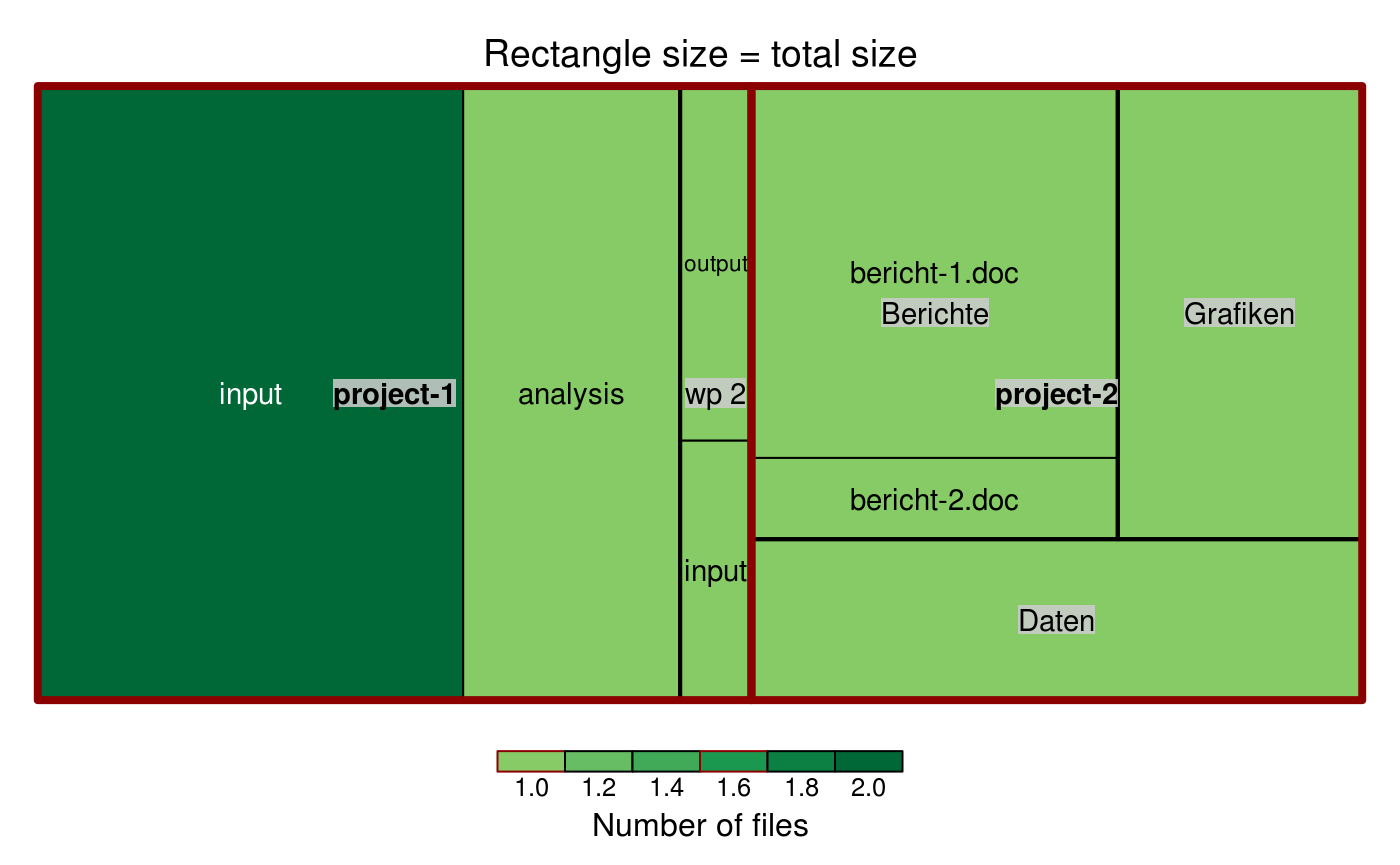
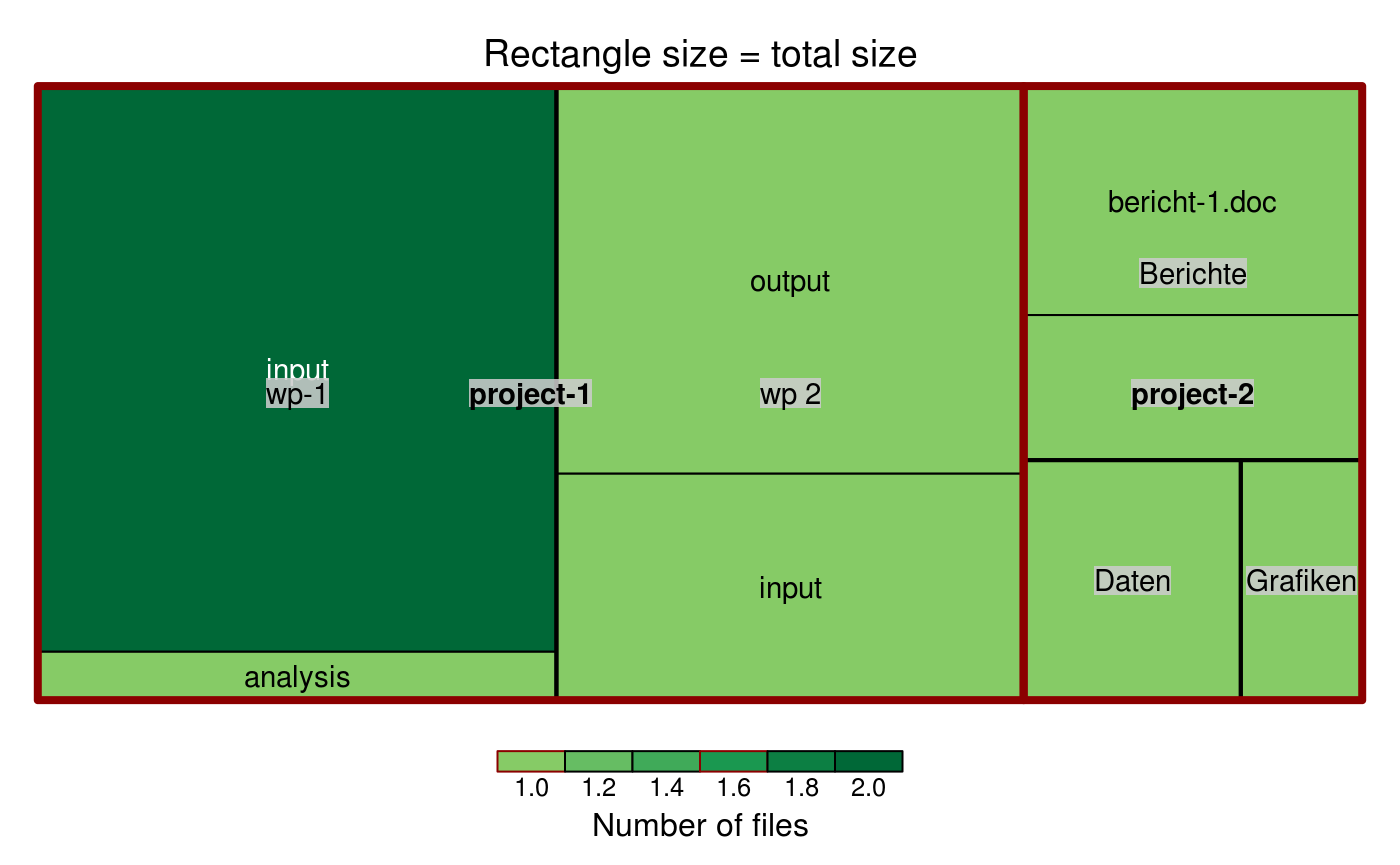
Built site for kwb.fakin: 0.3.0.9000@9576ae6

Changed region(s): [[0.0307, 0.0936, 0.9829, 0.8116], [0.7679, 0.2809, 0.9521, 0.4058], [0.7679, 0.2185, 0.9214, 0.2497]]

diff --git a/dev/articles/working_with_paths.html b/dev/articles/working_with_paths.html
@@ -104,7 +104,7 @@
       <h1>Working with Paths</h1>
                         <h4 class="author">Hauke Sonnenberg</h4>
             
-            <h4 class="date">2019-06-30</h4>
+            <h4 class="date">2019-07-03</h4>
       
       <small class="dont-index">Source: <a href="https://github.com/kwb-r/kwb.fakin/blob/master/vignettes/working_with_paths.Rmd"><code>vignettes/working_with_paths.Rmd</code></a></small>
       <div class="hidden name"><code>working_with_paths.Rmd</code></div>
@@ -142,16 +142,16 @@
 <pre><code>## Loading required package: networkD3</code></pre>
 <p>You can then use the <code><a href="../reference/plot_path_network.html">plot_path_network()</a></code> function from the kwb.fakin package to plot the example paths defined above:</p>
 <div class="sourceCode" id="cb4"><pre class="sourceCode r"><code class="sourceCode r"><a class="sourceLine" id="cb4-1" data-line-number="1">kwb.fakin<span class="op">::</span><span class="kw">plot_path_network</span>(paths)</a></code></pre></div>
-<div id="htmlwidget-a241016a91377f12ab9f" style="width:700px;height:162px;" class="sankeyNetwork html-widget"></div>
-<script type="application/json" data-for="htmlwidget-a241016a91377f12ab9f">{"x":{"links":{"source":[0,0,0,1,1,2,3,3,4,5,6,2,6],"target":[3,5,4,6,2,7,8,9,10,11,12,13,14],"value":[2,1,1,2,3,1,1,1,1,1,1,2,1]},"nodes":{"name":["project-2","project-1","wp-1","Berichte","Grafiken","Daten","wp 2","analysis","bericht-1.doc","bericht-2.doc","file 1.png","file-1.csv","input","input","output"],"group":["green","green","green","green","green","green","yellow","green","green","green","yellow","green","green","green","green"]},"options":{"NodeID":"name","NodeGroup":"colour","LinkGroup":null,"colourScale":"d3.scaleOrdinal() .domain(['green', 'yellow']) .range(['green', 'yellow'])","fontSize":7,"fontFamily":null,"nodeWidth":15,"nodePadding":8,"units":"","margin":{"top":null,"right":null,"bottom":null,"left":null},"iterations":32,"sinksRight":false}},"evals":[],"jsHooks":[]}</script><p>The function accepts all arguments provided by <code><a href="https://www.rdocumentation.org/packages/networkD3/topics/sankeyNetwork">networkD3::sankeyNetwork()</a></code>. You may e.g. use the argument <code>fontSize</code> to increase the node labels:</p>
+<div id="htmlwidget-bf618636c8169b9e0622" style="width:700px;height:162px;" class="sankeyNetwork html-widget"></div>
+<script type="application/json" data-for="htmlwidget-bf618636c8169b9e0622">{"x":{"links":{"source":[0,0,0,1,1,2,3,3,4,5,6,2,6],"target":[3,5,4,6,2,7,8,9,10,11,12,13,14],"value":[2,1,1,2,3,1,1,1,1,1,1,2,1]},"nodes":{"name":["project-2","project-1","wp-1","Berichte","Grafiken","Daten","wp 2","analysis","bericht-1.doc","bericht-2.doc","file 1.png","file-1.csv","input","input","output"],"group":["green","green","green","green","green","green","yellow","green","green","green","yellow","green","green","green","green"]},"options":{"NodeID":"name","NodeGroup":"colour","LinkGroup":null,"colourScale":"d3.scaleOrdinal() .domain(['green', 'yellow']) .range(['green', 'yellow'])","fontSize":7,"fontFamily":null,"nodeWidth":15,"nodePadding":8,"units":"","margin":{"top":null,"right":null,"bottom":null,"left":null},"iterations":32,"sinksRight":false}},"evals":[],"jsHooks":[]}</script><p>The function accepts all arguments provided by <code><a href="https://www.rdocumentation.org/packages/networkD3/topics/sankeyNetwork">networkD3::sankeyNetwork()</a></code>. You may e.g. use the argument <code>fontSize</code> to increase the node labels:</p>
 <div class="sourceCode" id="cb5"><pre class="sourceCode r"><code class="sourceCode r"><a class="sourceLine" id="cb5-1" data-line-number="1">kwb.fakin<span class="op">::</span><span class="kw">plot_path_network</span>(paths, <span class="dt">fontSize =</span> <span class="dv">16</span>)</a></code></pre></div>
-<div id="htmlwidget-f5c1d15da98f92db1619" style="width:700px;height:162px;" class="sankeyNetwork html-widget"></div>
-<script type="application/json" data-for="htmlwidget-f5c1d15da98f92db1619">{"x":{"links":{"source":[0,0,0,1,1,2,3,3,4,5,6,2,6],"target":[3,5,4,6,2,7,8,9,10,11,12,13,14],"value":[2,1,1,2,3,1,1,1,1,1,1,2,1]},"nodes":{"name":["project-2","project-1","wp-1","Berichte","Grafiken","Daten","wp 2","analysis","bericht-1.doc","bericht-2.doc","file 1.png","file-1.csv","input","input","output"],"group":["green","green","green","green","green","green","yellow","green","green","green","yellow","green","green","green","green"]},"options":{"NodeID":"name","NodeGroup":"colour","LinkGroup":null,"colourScale":"d3.scaleOrdinal() .domain(['green', 'yellow']) .range(['green', 'yellow'])","fontSize":16,"fontFamily":null,"nodeWidth":15,"nodePadding":8,"units":"","margin":{"top":null,"right":null,"bottom":null,"left":null},"iterations":32,"sinksRight":false}},"evals":[],"jsHooks":[]}</script><p>Let’s always use this font size by defining a short helper function:</p>
+<div id="htmlwidget-1b3d384a88dd50def753" style="width:700px;height:162px;" class="sankeyNetwork html-widget"></div>
+<script type="application/json" data-for="htmlwidget-1b3d384a88dd50def753">{"x":{"links":{"source":[0,0,0,1,1,2,3,3,4,5,6,2,6],"target":[3,5,4,6,2,7,8,9,10,11,12,13,14],"value":[2,1,1,2,3,1,1,1,1,1,1,2,1]},"nodes":{"name":["project-2","project-1","wp-1","Berichte","Grafiken","Daten","wp 2","analysis","bericht-1.doc","bericht-2.doc","file 1.png","file-1.csv","input","input","output"],"group":["green","green","green","green","green","green","yellow","green","green","green","yellow","green","green","green","green"]},"options":{"NodeID":"name","NodeGroup":"colour","LinkGroup":null,"colourScale":"d3.scaleOrdinal() .domain(['green', 'yellow']) .range(['green', 'yellow'])","fontSize":16,"fontFamily":null,"nodeWidth":15,"nodePadding":8,"units":"","margin":{"top":null,"right":null,"bottom":null,"left":null},"iterations":32,"sinksRight":false}},"evals":[],"jsHooks":[]}</script><p>Let’s always use this font size by defining a short helper function:</p>
 <div class="sourceCode" id="cb6"><pre class="sourceCode r"><code class="sourceCode r"><a class="sourceLine" id="cb6-1" data-line-number="1">plot_16pt &lt;-<span class="st"> </span><span class="cf">function</span>(...) kwb.fakin<span class="op">::</span><span class="kw">plot_path_network</span>(..., <span class="dt">fontSize =</span> <span class="dv">16</span>)</a></code></pre></div>
 <p>By default only the first three levels of folders or files are shown. You can increase (or decrease) the number of shown levels by setting the <code>max_depth</code> argument:</p>
 <div class="sourceCode" id="cb7"><pre class="sourceCode r"><code class="sourceCode r"><a class="sourceLine" id="cb7-1" data-line-number="1"><span class="kw">plot_16pt</span>(paths, <span class="dt">max_depth =</span> <span class="dv">4</span>)</a></code></pre></div>
-<div id="htmlwidget-524c9fd116e6f0dcc8e8" style="width:700px;height:162px;" class="sankeyNetwork html-widget"></div>
-<script type="application/json" data-for="htmlwidget-524c9fd116e6f0dcc8e8">{"x":{"links":{"source":[0,0,0,1,1,2,3,3,4,5,6,2,6,7,7,8,9,10],"target":[3,5,4,6,2,10,11,12,13,14,9,7,8,15,16,17,18,19],"value":[2,1,1,2,3,1,1,1,1,1,1,2,1,1,1,1,1,1]},"nodes":{"name":["project-2","project-1","wp-1","Berichte","Grafiken","Daten","wp 2","input","output","input","analysis","bericht-1.doc","bericht-2.doc","file 1.png","file-1.csv","file 1.csv","file-2.csv","koepenick_clean.csv","köpenick_dirty.csv","summary.pdf"],"group":["green","green","green","green","green","green","yellow","green","green","green","green","green","green","yellow","green","yellow","green","green","red","green"]},"options":{"NodeID":"name","NodeGroup":"colour","LinkGroup":null,"colourScale":"d3.scaleOrdinal() .domain(['green', 'yellow', 'red']) .range(['green', 'yellow', 'red'])","fontSize":16,"fontFamily":null,"nodeWidth":15,"nodePadding":8,"units":"","margin":{"top":null,"right":null,"bottom":null,"left":null},"iterations":32,"sinksRight":false}},"evals":[],"jsHooks":[]}</script><p>Now, that all three traffic light colours (green, yellow, red) appear in the plot, we want to explain what these colours are intended to indicate:</p>
+<div id="htmlwidget-88195d5f86d5a05de32b" style="width:700px;height:162px;" class="sankeyNetwork html-widget"></div>
+<script type="application/json" data-for="htmlwidget-88195d5f86d5a05de32b">{"x":{"links":{"source":[0,0,0,1,1,2,3,3,4,5,6,2,6,7,7,8,9,10],"target":[3,5,4,6,2,10,11,12,13,14,9,7,8,15,16,17,18,19],"value":[2,1,1,2,3,1,1,1,1,1,1,2,1,1,1,1,1,1]},"nodes":{"name":["project-2","project-1","wp-1","Berichte","Grafiken","Daten","wp 2","input","output","input","analysis","bericht-1.doc","bericht-2.doc","file 1.png","file-1.csv","file 1.csv","file-2.csv","koepenick_clean.csv","köpenick_dirty.csv","summary.pdf"],"group":["green","green","green","green","green","green","yellow","green","green","green","green","green","green","yellow","green","yellow","green","green","red","green"]},"options":{"NodeID":"name","NodeGroup":"colour","LinkGroup":null,"colourScale":"d3.scaleOrdinal() .domain(['green', 'yellow', 'red']) .range(['green', 'yellow', 'red'])","fontSize":16,"fontFamily":null,"nodeWidth":15,"nodePadding":8,"units":"","margin":{"top":null,"right":null,"bottom":null,"left":null},"iterations":32,"sinksRight":false}},"evals":[],"jsHooks":[]}</script><p>Now, that all three traffic light colours (green, yellow, red) appear in the plot, we want to explain what these colours are intended to indicate:</p>
 <ul>
 <li><p>Green: name is fully compliant with our naming rules. It consists only of alphanumeric letters, underscore, hyphen or dot.</p></li>
 <li><p>Yellow: name is almost compliant with our naming rules. It constists only of alphanumeric letters, underscore, hyphen, dot or space.</p></li>
@@ -180,10 +180,10 @@
 ## Aggregating by first 3 path levels ... ok. (0.18s) 
 ## Creating treemap 'size' ...</code></pre>
 <p><img src="working_with_paths_files/figure-html/unnamed-chunk-8-1.png" width="700"></p>
-<pre><code>## ok. (0.39s) 
+<pre><code>## ok. (0.40s) 
 ## Creating treemap 'files' ...</code></pre>
 <p><img src="working_with_paths_files/figure-html/unnamed-chunk-8-2.png" width="700"></p>
-<pre><code>## ok. (0.26s)</code></pre>
+<pre><code>## ok. (0.27s)</code></pre>
 <pre><code>## NULL</code></pre>
 <p>By default the plots are saved to png files in the temporary directory. To let the plots show up here we set <code>as_png</code> to <code>FALSE</code> in the above call.</p>
 </div>
@@ -296,8 +296,8 @@
 ## [5] "wp-1/input/file-2.csv"</code></pre>
 <p>You can plot the sub-tree by passing it directly to <code>plot_path_network</code>, or here to our helper function, without prior conversion:</p>
 <div class="sourceCode" id="cb27"><pre class="sourceCode r"><code class="sourceCode r"><a class="sourceLine" id="cb27-1" data-line-number="1"><span class="kw">plot_16pt</span>(subtree)</a></code></pre></div>
-<div id="htmlwidget-adc6737a927fb0ab5419" style="width:700px;height:90px;" class="sankeyNetwork html-widget"></div>
-<script type="application/json" data-for="htmlwidget-adc6737a927fb0ab5419">{"x":{"links":{"source":[0,1,0,1,2,2,3,4,5],"target":[5,4,2,3,6,7,8,9,10],"value":[1,1,2,1,1,1,1,1,1]},"nodes":{"name":["wp-1","wp 2","input","output","input","analysis","file 1.csv","file-2.csv","koepenick_clean.csv","köpenick_dirty.csv","summary.pdf"],"group":["green","yellow","green","green","green","green","yellow","green","green","red","green"]},"options":{"NodeID":"name","NodeGroup":"colour","LinkGroup":null,"colourScale":"d3.scaleOrdinal() .domain(['green', 'yellow', 'red']) .range(['green', 'yellow', 'red'])","fontSize":16,"fontFamily":null,"nodeWidth":15,"nodePadding":8,"units":"","margin":{"top":null,"right":null,"bottom":null,"left":null},"iterations":32,"sinksRight":false}},"evals":[],"jsHooks":[]}</script>
+<div id="htmlwidget-f76e823bcfc41ba80312" style="width:700px;height:90px;" class="sankeyNetwork html-widget"></div>
+<script type="application/json" data-for="htmlwidget-f76e823bcfc41ba80312">{"x":{"links":{"source":[0,1,0,1,2,2,3,4,5],"target":[5,4,2,3,6,7,8,9,10],"value":[1,1,2,1,1,1,1,1,1]},"nodes":{"name":["wp-1","wp 2","input","output","input","analysis","file 1.csv","file-2.csv","koepenick_clean.csv","köpenick_dirty.csv","summary.pdf"],"group":["green","yellow","green","green","green","green","yellow","green","green","red","green"]},"options":{"NodeID":"name","NodeGroup":"colour","LinkGroup":null,"colourScale":"d3.scaleOrdinal() .domain(['green', 'yellow', 'red']) .range(['green', 'yellow', 'red'])","fontSize":16,"fontFamily":null,"nodeWidth":15,"nodePadding":8,"units":"","margin":{"top":null,"right":null,"bottom":null,"left":null},"iterations":32,"sinksRight":false}},"evals":[],"jsHooks":[]}</script>
 </div>
 </div>
 <div id="quality-of-file-and-folder-names" class="section level2">

diff --git a/dev/articles/what_is_there.html b/dev/articles/what_is_there.html
@@ -242,21 +242,31 @@
 <a class="sourceLine" id="cb6-21" data-line-number="21"><span class="co">#&gt;     }</span></a>
 <a class="sourceLine" id="cb6-22" data-line-number="22"><span class="co">#&gt;     cat_time("End")</span></a>
 <a class="sourceLine" id="cb6-23" data-line-number="23"><span class="co">#&gt; }</span></a>
-<a class="sourceLine" id="cb6-24" data-line-number="24"><span class="co">#&gt; &lt;bytecode: 0x5fff2d8&gt;</span></a>
+<a class="sourceLine" id="cb6-24" data-line-number="24"><span class="co">#&gt; &lt;bytecode: 0x5cf3f48&gt;</span></a>
 <a class="sourceLine" id="cb6-25" data-line-number="25"><span class="co">#&gt; &lt;environment: namespace:kwb.fakin&gt;</span></a></code></pre></div>
 </div>
 <div id="get_recursive_file_info" class="section level3">
 <h3 class="hasAnchor">
 <a href="#get_recursive_file_info" class="anchor"></a>get_recursive_file_info</h3>
-<div class="sourceCode" id="cb7"><pre class="sourceCode r"><code class="sourceCode r"><a class="sourceLine" id="cb7-1" data-line-number="1">kwb.fakin<span class="op">::</span>get_recursive_file_info</a>
-<a class="sourceLine" id="cb7-2" data-line-number="2"><span class="co">#&gt; function (root_dir, pattern = NULL, all = TRUE, dbg = TRUE) </span></a>
-<a class="sourceLine" id="cb7-3" data-line-number="3"><span class="co">#&gt; {</span></a>
-<a class="sourceLine" id="cb7-4" data-line-number="4"><span class="co">#&gt;     kwb.utils::catAndRun(paste("Getting file information on files below", </span></a>
-<a class="sourceLine" id="cb7-5" data-line-number="5"><span class="co">#&gt;         root_dir), dbg = dbg, fs::dir_info(root_dir, all = all, </span></a>
-<a class="sourceLine" id="cb7-6" data-line-number="6"><span class="co">#&gt;         recurse = TRUE, regexp = pattern))</span></a>
-<a class="sourceLine" id="cb7-7" data-line-number="7"><span class="co">#&gt; }</span></a>
-<a class="sourceLine" id="cb7-8" data-line-number="8"><span class="co">#&gt; &lt;bytecode: 0x612e7c8&gt;</span></a>
-<a class="sourceLine" id="cb7-9" data-line-number="9"><span class="co">#&gt; &lt;environment: namespace:kwb.fakin&gt;</span></a></code></pre></div>
+<p>This is just a wrapper around <code><a href="http://fs.r-lib.org/reference/dir_ls.html">fs::dir_info()</a></code> with <code>recurse = TRUE</code>. The function is run inside a call to <code><a href="https://www.rdocumentation.org/packages/kwb.utils/topics/catAndRun">kwb.utils::catAndRun()</a></code>.</p>
+<div class="sourceCode" id="cb7"><pre class="sourceCode r"><code class="sourceCode r"><a class="sourceLine" id="cb7-1" data-line-number="1">root &lt;-<span class="st"> </span><span class="kw"><a href="https://www.rdocumentation.org/packages/base/topics/system.file">system.file</a></span>(<span class="dt">package =</span> <span class="st">"kwb.fakin"</span>)</a>
+<a class="sourceLine" id="cb7-2" data-line-number="2">file_info &lt;-<span class="st"> </span>kwb.fakin<span class="op">::</span><span class="kw">get_recursive_file_info</span>(root)</a>
+<a class="sourceLine" id="cb7-3" data-line-number="3"><span class="co">#&gt; Getting file information on files below /usr/local/lib/R/site-library/kwb.fakin ... ok. (0.00s)</span></a>
+<a class="sourceLine" id="cb7-4" data-line-number="4"><span class="kw"><a href="https://www.rdocumentation.org/packages/utils/topics/head">head</a></span>(file_info[, <span class="dv">1</span><span class="op">:</span><span class="dv">3</span>])</a>
+<a class="sourceLine" id="cb7-5" data-line-number="5"><span class="co">#&gt;                                                        path      type</span></a>
+<a class="sourceLine" id="cb7-6" data-line-number="6"><span class="co">#&gt; 1       /usr/local/lib/R/site-library/kwb.fakin/DESCRIPTION      file</span></a>
+<a class="sourceLine" id="cb7-7" data-line-number="7"><span class="co">#&gt; 2             /usr/local/lib/R/site-library/kwb.fakin/INDEX      file</span></a>
+<a class="sourceLine" id="cb7-8" data-line-number="8"><span class="co">#&gt; 3           /usr/local/lib/R/site-library/kwb.fakin/LICENSE      file</span></a>
+<a class="sourceLine" id="cb7-9" data-line-number="9"><span class="co">#&gt; 4              /usr/local/lib/R/site-library/kwb.fakin/Meta directory</span></a>
+<a class="sourceLine" id="cb7-10" data-line-number="10"><span class="co">#&gt; 5       /usr/local/lib/R/site-library/kwb.fakin/Meta/Rd.rds      file</span></a>
+<a class="sourceLine" id="cb7-11" data-line-number="11"><span class="co">#&gt; 6 /usr/local/lib/R/site-library/kwb.fakin/Meta/features.rds      file</span></a>
+<a class="sourceLine" id="cb7-12" data-line-number="12"><span class="co">#&gt;      size</span></a>
+<a class="sourceLine" id="cb7-13" data-line-number="13"><span class="co">#&gt; 1   1.87K</span></a>
+<a class="sourceLine" id="cb7-14" data-line-number="14"><span class="co">#&gt; 2   3.14K</span></a>
+<a class="sourceLine" id="cb7-15" data-line-number="15"><span class="co">#&gt; 3   1.08K</span></a>
+<a class="sourceLine" id="cb7-16" data-line-number="16"><span class="co">#&gt; 4      4K</span></a>
+<a class="sourceLine" id="cb7-17" data-line-number="17"><span class="co">#&gt; 5   1.91K</span></a>
+<a class="sourceLine" id="cb7-18" data-line-number="18"><span class="co">#&gt; 6     131</span></a></code></pre></div>
 </div>
 </div>
   </div>

diff --git a/dev/reference/build_folders_from_file.html b/dev/reference/build_folders_from_file.html
@@ -188,21 +188,21 @@ considered</p></td>
 <span class='fu'><a href='https://www.rdocumentation.org/packages/base/topics/writeLines'>writeLines</a></span>(<span class='no'>paths</span>, <span class='no'>file_paths</span> <span class='kw'>&lt;-</span> <span class='fu'><a href='https://www.rdocumentation.org/packages/base/topics/tempfile'>tempfile</a></span>())
 
 <span class='co'># Create a temporary target directory</span>
-<span class='no'>target_dir</span> <span class='kw'>&lt;-</span> <span class='kw pkg'>kwb.utils</span><span class='kw ns'>::</span><span class='fu'><a href='https://www.rdocumentation.org/packages/kwb.utils/topics/createDirectory'>createDirectory</a></span>(<span class='fu'><a href='https://www.rdocumentation.org/packages/base/topics/file.path'>file.path</a></span>(<span class='fu'><a href='https://www.rdocumentation.org/packages/base/topics/tempfile'>tempdir</a></span>(), <span class='st'>"test"</span>))</div><div class='output co'>#&gt; The directory "/tmp/RtmpP7pU69/test" was created.</div><div class='input'>
+<span class='no'>target_dir</span> <span class='kw'>&lt;-</span> <span class='kw pkg'>kwb.utils</span><span class='kw ns'>::</span><span class='fu'><a href='https://www.rdocumentation.org/packages/kwb.utils/topics/createDirectory'>createDirectory</a></span>(<span class='fu'><a href='https://www.rdocumentation.org/packages/base/topics/file.path'>file.path</a></span>(<span class='fu'><a href='https://www.rdocumentation.org/packages/base/topics/tempfile'>tempdir</a></span>(), <span class='st'>"test"</span>))</div><div class='output co'>#&gt; The directory "/tmp/Rtmp6PnM4L/test" was created.</div><div class='input'>
 <span class='co'># Create the folder structure as defined by the paths in the temporary file</span>
 <span class='kw pkg'>kwb.fakin</span><span class='kw ns'>::</span><span class='fu'><a href='https://www.rdocumentation.org/packages/kwb.fakin/topics/build_folders_from_file'>build_folders_from_file</a></span>(<span class='no'>file_paths</span>, <span class='no'>target_dir</span>)</div><div class='output co'>#&gt; Selected encoding: 'Latin-1'
-#&gt; Reading paths from '/tmp/RtmpP7pU69/file57a97ce0b23' ... ok. (0.00s) 
+#&gt; Reading paths from '/tmp/Rtmp6PnM4L/file5a6fe1d313d' ... ok. (0.00s) 
 #&gt; 4 lines have been read.
 #&gt; Splitting paths ... ok. (0.00s) 
 #&gt; Putting path segments together ... ok. (0.00s) 
 #&gt; Splitting paths ... ok. (0.00s) 
-#&gt; The directory "/tmp/RtmpP7pU69/test" already exists.
-#&gt; The directory "/tmp/RtmpP7pU69/test/a1" was created.
-#&gt; The directory "/tmp/RtmpP7pU69/test/a1/b1" was created.
-#&gt; The directory "/tmp/RtmpP7pU69/test/a1/b2" was created.
-#&gt; The directory "/tmp/RtmpP7pU69/test/a2" was created.
-#&gt; The directory "/tmp/RtmpP7pU69/test/a2/b1" was created.
-#&gt; The directory "/tmp/RtmpP7pU69/test/a2/b1/c1" was created.</div><div class='input'>
+#&gt; The directory "/tmp/Rtmp6PnM4L/test" already exists.
+#&gt; The directory "/tmp/Rtmp6PnM4L/test/a1" was created.
+#&gt; The directory "/tmp/Rtmp6PnM4L/test/a1/b1" was created.
+#&gt; The directory "/tmp/Rtmp6PnM4L/test/a1/b2" was created.
+#&gt; The directory "/tmp/Rtmp6PnM4L/test/a2" was created.
+#&gt; The directory "/tmp/Rtmp6PnM4L/test/a2/b1" was created.
+#&gt; The directory "/tmp/Rtmp6PnM4L/test/a2/b1/c1" was created.</div><div class='input'>
 <span class='co'># List the directory paths below the target directory</span>
 <span class='no'>paths_reread</span> <span class='kw'>&lt;-</span> <span class='fu'><a href='https://www.rdocumentation.org/packages/base/topics/list.files'>list.dirs</a></span>(<span class='no'>target_dir</span>, <span class='kw'>recursive</span> <span class='kw'>=</span> <span class='fl'>TRUE</span>, <span class='kw'>full.names</span> <span class='kw'>=</span> <span class='fl'>FALSE</span>)
 

diff --git a/dev/reference/plot_treemaps_from_path_data.html b/dev/reference/plot_treemaps_from_path_data.html
@@ -151,7 +151,8 @@
 
     <pre class="usage"><span class='fu'>plot_treemaps_from_path_data</span>(<span class='no'>path_data</span>, <span class='kw'>root_path</span> <span class='kw'>=</span> <span class='st'>""</span>, <span class='kw'>name</span> <span class='kw'>=</span> <span class='st'>"root"</span>,
   <span class='kw'>as_png</span> <span class='kw'>=</span> <span class='fl'>FALSE</span>, <span class='kw'>n_levels</span> <span class='kw'>=</span> <span class='fl'>3</span>, <span class='kw'>output_dir</span> <span class='kw'>=</span> <span class='fu'><a href='https://www.rdocumentation.org/packages/base/topics/tempfile'>tempdir</a></span>(),
-  <span class='kw'>type</span> <span class='kw'>=</span> <span class='st'>"value"</span>, <span class='kw'>args_png</span> <span class='kw'>=</span> <span class='fu'><a href='https://www.rdocumentation.org/packages/base/topics/list'>list</a></span>(), <span class='kw'>n_biggest</span> <span class='kw'>=</span> -<span class='fl'>1</span>, <span class='kw'>depth</span> <span class='kw'>=</span> <span class='fl'>1</span>)</pre>
+  <span class='kw'>type</span> <span class='kw'>=</span> <span class='st'>"value"</span>, <span class='kw'>args_png</span> <span class='kw'>=</span> <span class='fu'><a href='https://www.rdocumentation.org/packages/base/topics/list'>list</a></span>(), <span class='kw'>n_biggest</span> <span class='kw'>=</span> -<span class='fl'>1</span>, <span class='kw'>depth</span> <span class='kw'>=</span> <span class='fl'>1</span>,
+  <span class='kw'>types</span> <span class='kw'>=</span> <span class='fu'><a href='https://www.rdocumentation.org/packages/base/topics/c'>c</a></span>(<span class='st'>"size"</span>, <span class='st'>"files"</span>))</pre>
     
     <h2 class="hasAnchor" id="arguments"><a class="anchor" href="#arguments"></a>Arguments</h2>
     <table class="ref-arguments">
@@ -217,6 +218,11 @@ subfolder on the corresponding folder depth.</p></td>
     <tr>
       <th>depth</th>
       <td><p>current depth of recursion</p></td>
+    </tr>
+    <tr>
+      <th>types</th>
+      <td><p>type(s) of treeplots: one or both of <code><a href='https://www.rdocumentation.org/packages/base/topics/c'>c("size", "files")</a></code>
+(the default).</p></td>
     </tr>
     </table>
     

diff --git a/dev/reference/read_path_information.html b/dev/reference/read_path_information.html
@@ -186,10 +186,10 @@
 <span class='co'># Write all paths below root_dir into a "path-info"-file</span>
 <span class='kw pkg'>kwb.fakin</span><span class='kw ns'>::</span><span class='fu'><a href='https://www.rdocumentation.org/packages/kwb.fakin/topics/get_and_save_file_info'>get_and_save_file_info</a></span>(<span class='no'>root_dir</span>, <span class='no'>output_dir</span>)</div><div class='output co'>#&gt; Getting file information on files below /home/travis/build/KWB-R/kwb.fakin/inst ... ok. (0.00s) 
 #&gt; Elapsed: 0.003 
-#&gt; Writing to '/tmp/RtmpP7pU69/path-info_2019-06-30_0726_inst.csv' with data.table::fwrite() ... ok. (0.00s) 
-#&gt; Elapsed: 0.002 </div><div class='input'>
+#&gt; Writing to '/tmp/Rtmp6PnM4L/path-info_2019-07-03_0114_inst.csv' with data.table::fwrite() ... ok. (0.00s) 
+#&gt; Elapsed: 0.001 </div><div class='input'>
 <span class='co'># Read the "path-info"-files that are (now) found in output_dir</span>
-<span class='no'>path_info</span> <span class='kw'>&lt;-</span> <span class='kw pkg'>kwb.fakin</span><span class='kw ns'>:::</span><span class='fu'><a href='https://www.rdocumentation.org/packages/kwb.fakin/topics/read_path_information'>read_path_information</a></span>(<span class='no'>output_dir</span>, <span class='kw'>sep</span> <span class='kw'>=</span> <span class='st'>";"</span>)</div><div class='output co'>#&gt; Reading '/tmp/RtmpP7pU69/path-info_2019-06-30_0726_inst.csv' with data.table::fread() ... ok. (0.00s) 
+<span class='no'>path_info</span> <span class='kw'>&lt;-</span> <span class='kw pkg'>kwb.fakin</span><span class='kw ns'>:::</span><span class='fu'><a href='https://www.rdocumentation.org/packages/kwb.fakin/topics/read_path_information'>read_path_information</a></span>(<span class='no'>output_dir</span>, <span class='kw'>sep</span> <span class='kw'>=</span> <span class='st'>";"</span>)</div><div class='output co'>#&gt; Reading '/tmp/Rtmp6PnM4L/path-info_2019-07-03_0114_inst.csv' with data.table::fread() ... ok. (0.00s) 
 #&gt; Converting file size to MiB ... ok. (0.00s) </div><div class='input'>
 </div></pre>
   </div>

diff --git a/dev/articles/understanding_encoding.html b/dev/articles/understanding_encoding.html
@@ -104,7 +104,7 @@
       <h1>Understanding Encoding</h1>
                         <h4 class="author">Hauke Sonnenberg</h4>
             
-            <h4 class="date">2019-06-30</h4>
+            <h4 class="date">2019-07-03</h4>
       
       <small class="dont-index">Source: <a href="https://github.com/kwb-r/kwb.fakin/blob/master/vignettes/understanding_encoding.Rmd"><code>vignettes/understanding_encoding.Rmd</code></a></small>
       <div class="hidden name"><code>understanding_encoding.Rmd</code></div>
@@ -159,7 +159,7 @@
 <div class="sourceCode" id="cb3"><pre class="sourceCode r"><code class="sourceCode r"><a class="sourceLine" id="cb3-1" data-line-number="1">text &lt;-<span class="st"> "Schöne Grüße"</span></a>
 <a class="sourceLine" id="cb3-2" data-line-number="2"></a>
 <a class="sourceLine" id="cb3-3" data-line-number="3">test_file &lt;-<span class="st"> </span>kwb.utils<span class="op">::</span><span class="kw">writeText</span>(text, <span class="kw"><a href="https://www.rdocumentation.org/packages/base/topics/tempfile">tempfile</a></span>(<span class="dt">fileext =</span> <span class="st">".txt"</span>))</a>
-<a class="sourceLine" id="cb3-4" data-line-number="4"><span class="co">#&gt; Writing '/tmp/Rtmp0Dfycg/file583245202429.txt' ... ok.</span></a></code></pre></div>
+<a class="sourceLine" id="cb3-4" data-line-number="4"><span class="co">#&gt; Writing '/tmp/RtmpAF4cK4/file5af87c0b2745.txt' ... ok.</span></a></code></pre></div>
 <p>And now read the line back with <code><a href="https://www.rdocumentation.org/packages/base/topics/readLines">readLines()</a></code>:</p>
 <div class="sourceCode" id="cb4"><pre class="sourceCode r"><code class="sourceCode r"><a class="sourceLine" id="cb4-1" data-line-number="1"><span class="kw"><a href="https://www.rdocumentation.org/packages/base/topics/readLines">readLines</a></span>(test_file)</a>
 <a class="sourceLine" id="cb4-2" data-line-number="2"><span class="co">#&gt; [1] "Schöne Grüße"</span></a></code></pre></div>

diff --git a/dev/articles/track_folder_changes.html b/dev/articles/track_folder_changes.html
@@ -104,7 +104,7 @@
       <h1>Tracking Changes in Folder Structures</h1>
                         <h4 class="author">Hauke Sonnenberg</h4>
             
-            <h4 class="date">2019-06-30</h4>
+            <h4 class="date">2019-07-03</h4>
       
       <small class="dont-index">Source: <a href="https://github.com/kwb-r/kwb.fakin/blob/master/vignettes/track_folder_changes.Rmd"><code>vignettes/track_folder_changes.Rmd</code></a></small>
       <div class="hidden name"><code>track_folder_changes.Rmd</code></div>

diff --git a/dev/articles/analyse_scripts.html b/dev/articles/analyse_scripts.html
@@ -104,7 +104,7 @@
       <h1>Analysing R Scripts</h1>
                         <h4 class="author">Hauke Sonnenberg</h4>
             
-            <h4 class="date">2019-06-30</h4>
+            <h4 class="date">2019-07-03</h4>
       
       <small class="dont-index">Source: <a href="https://github.com/kwb-r/kwb.fakin/blob/master/vignettes/analyse_scripts.Rmd"><code>vignettes/analyse_scripts.Rmd</code></a></small>
       <div class="hidden name"><code>analyse_scripts.Rmd</code></div>
